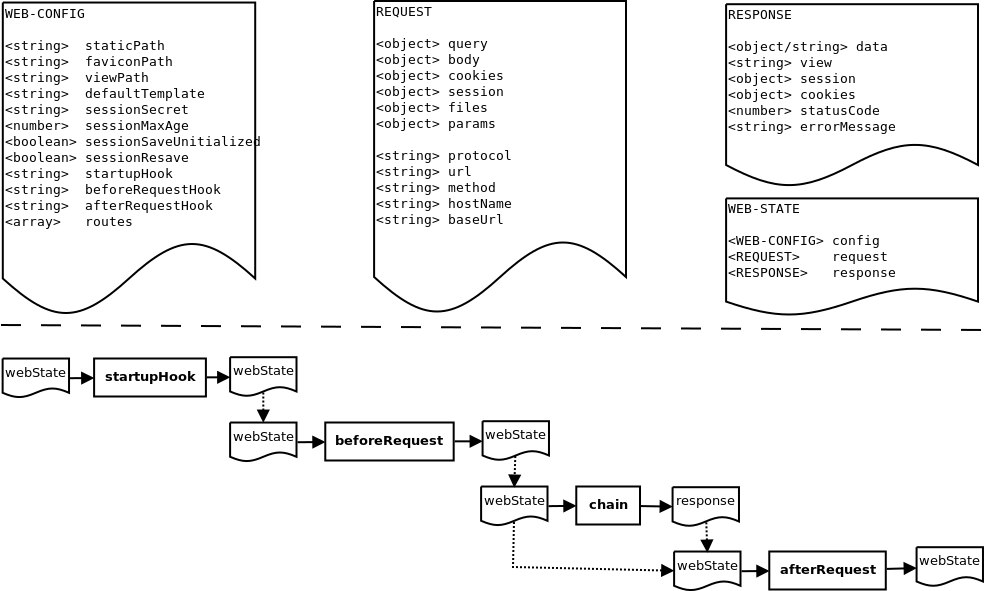
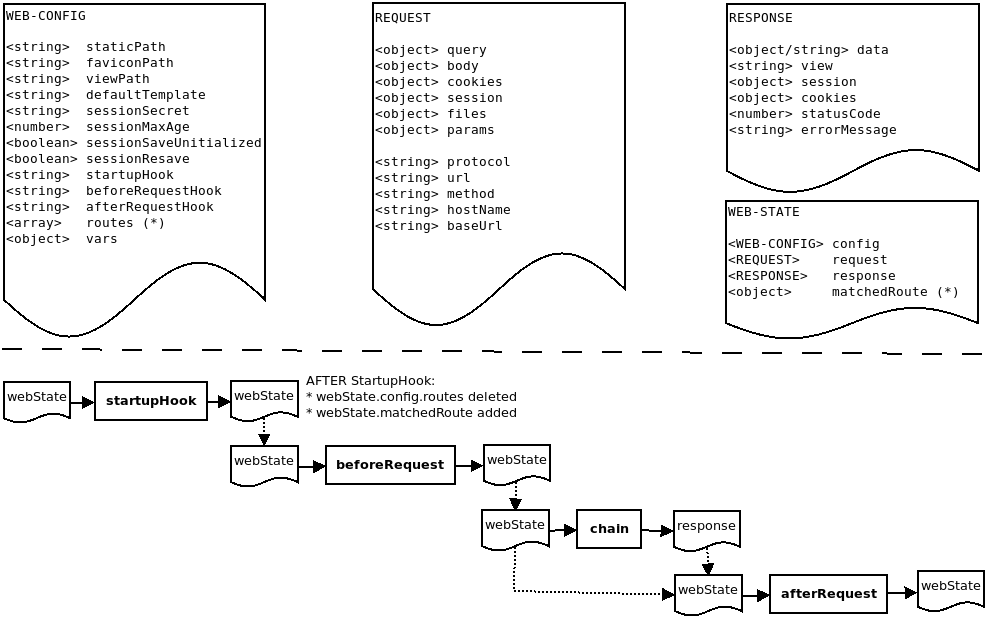
remove unused dependencies

diff --git a/lib/web.js b/lib/web.js
@@ -8,6 +8,7 @@ module.exports = {
 }
 
 const async = require('neo-async')
+const compression = require('compression')
 const stringify = require('json-stringify-safe')
 const express = require('express')
 const favicon = require('serve-favicon')
@@ -129,11 +130,7 @@ function getParametersAsObject (route, urlPath) {
 }
 
 function getAppWithMiddleware (app, config) {
-  app.use(logger('dev'))
-  app.use(bodyParser.json())
-  app.use(bodyParser.urlencoded({ extended: true }))
-  app.use(cookieParser())
-  app.use(fileUpload())
+  app.use(compression())
   try {
     if (!util.isNullOrUndefined(config.staticPath)) {
       app.use(express.static(config.staticPath))
@@ -151,6 +148,11 @@ function getAppWithMiddleware (app, config) {
   } catch (error) {
     console.error(error)
   }
+  app.use(logger('dev'))
+  app.use(bodyParser.json())
+  app.use(bodyParser.urlencoded({ extended: true }))
+  app.use(cookieParser())
+  app.use(fileUpload())
   // nunjucks, pug, handlebars, and ejs are used altogether
   app.engine('njk', engines.nunjucks)
   app.engine('pug', engines.pug)
@@ -196,7 +198,7 @@ function createResponder (app, webConfig) {
     // process
     async.series([
       createHookProcessor(STATE.config, 'startupHook'),
-      routeProcessor,
+      routeProcessor, // set STATE.matchedRoute if there is a matching route, delete STATE.config.routes
       createHookProcessor(STATE.config, 'beforeRequestHook'),
       createChainProcessor(STATE.config),
       createHookProcessor(STATE.config, 'afterRequestHook')
@@ -220,10 +222,7 @@ function createResponder (app, webConfig) {
       logMessage(description + ' STATE :\n' + util.getInspectedObject(STATE), verbosity)
     }
 
-    function findRouteObj () {
-      let routeObjList = STATE.config.routes
-      let urlPath = url.parse(STATE.request.url).pathname
-      let method = STATE.request.method.toLowerCase()
+    function findRouteObj (routeObjList, urlPath, method) {
       for (let i = 0; i < routeObjList.length; i++) {
         let routeObj = routeObjList[i]
         let routeMethod = routeObj.method
@@ -236,7 +235,19 @@ function createResponder (app, webConfig) {
     }
 
     function routeProcessor (callback) {
-      let routeObj = findRouteObj()
+      let routeObjList = STATE.config.routes
+      let urlPath = url.parse(STATE.request.url).pathname
+      let method = STATE.request.method.toLowerCase()
+      logMessage('PROCESS ROUTE `' + urlPath + '`', VERBOSE)
+      let routeObj = findRouteObj(routeObjList, urlPath, method)
+      STATE.matchedRoute = routeObj
+      if (util.isNullOrUndefined(routeObj)) {
+        logMessage('CHAIN FOR `' + urlPath + '` DOES NOT EXIST', VERBOSE)
+      } else {
+        logMessage('FIND `' + routeObj.chain + '` FOR `' + urlPath + '`', VERBOSE)
+      }
+      delete STATE.config.routes
+      callback()
     }
 
     function createHookProcessor (config, hookKey) {
@@ -282,50 +293,40 @@ function createResponder (app, webConfig) {
         if (STATE.response.status >= 400) {
           return callback()
         }
-        let routeObjList = STATE.config.routes
-        let urlPath = url.parse(STATE.request.url).pathname
-        let method = STATE.request.method.toLowerCase()
-        // delete STATE.config.vars && STATE.config.routes
-        delete STATE.config.vars
-        delete STATE.config.routes
-        logMessage('BEFORE ' + urlPath, VERBOSE)
-        logState('BEFORE ' + urlPath, VERY_VERBOSE)
-        for (let i = 0; i < routeObjList.length; i++) {
-          let routeObj = routeObjList[i]
-          let routeMethod = routeObj.method
+        let routeObj = STATE.matchedRoute
+        if (routeObj) {
+          let urlPath = url.parse(STATE.request.url).pathname
           let route = routeObj.route
-          if ((routeMethod === 'all' || routeMethod === method) && isRouteMatch(route, urlPath)) {
-            if (routeObj.view) {
-              // inject view if it is defined by the route
-              STATE.response.view = routeObj.view
-            }
-            let chain = routeObj.chain
-            STATE.request.params = getParametersAsObject(route, urlPath)
-            logMessage('FIND ' + urlPath + ' -> ' + chain, VERBOSE)
-            return core.executeChain(chain, [STATE], config.vars, function (error, newResponse) {
-              if (!error) {
-                console.error(STATE.response.status)
-                if (!util.isRealObject(newResponse)) {
-                  newResponse = {'data': String(newResponse)}
-                }
-                STATE.response = util.getPatchedObject(STATE.response, newResponse)
-              } else {
-                STATE.response = util.getPatchedObject(STATE.response, newResponse)
-                STATE.response.status = 500
-                STATE.response.errorMessage = 'Internal Server Error'
-                STATE.response.error = error
-                console.error(error)
-              }
-              logMessage('AFTER ' + urlPath + ' -> ' + chain, VERBOSE)
-              logState(urlPath + ' -> ' + chain, VERY_VERBOSE)
-              return callback()
-            })
+          if (routeObj.view) {
+            // inject view if it is defined by the route
+            STATE.response.view = routeObj.view
           }
+          let chain = routeObj.chain
+          STATE.request.params = getParametersAsObject(route, urlPath)
+          logMessage('EXECUTE `' + chain + '`', VERBOSE)
+          logState(chain, VERY_VERBOSE)
+          return core.executeChain(chain, [STATE], config.vars, function (error, newResponse) {
+            if (!error) {
+              console.error(STATE.response.status)
+              if (!util.isRealObject(newResponse)) {
+                newResponse = {'data': String(newResponse)}
+              }
+              STATE.response = util.getPatchedObject(STATE.response, newResponse)
+            } else {
+              STATE.response = util.getPatchedObject(STATE.response, newResponse)
+              STATE.response.status = 500
+              STATE.response.errorMessage = 'Internal Server Error'
+              STATE.response.error = error
+              console.error(error)
+            }
+            logMessage('EXECUTION COMPLETE', VERBOSE)
+            logState(chain, VERY_VERBOSE)
+            return callback()
+          })
         }
         STATE.response.status = 404
         STATE.response.errorMessage = 'Not Found'
-        logMessage('AFTER ' + urlPath + ' (Not Found)', VERBOSE)
-        logState(urlPath + ' (Not Found)', VERY_VERBOSE)
+        logMessage('NOT FOUND', VERBOSE)
         return callback()
       }
     }

diff --git a/web/helper.js b/web/helper.js
@@ -37,31 +37,38 @@ function loadEjs (fileName, data) {
   return ejs.render(content, data).trim()
 }
 
+function renderContent (responseData, view, viewPath) {
+  if (fs.existsSync(view)) {
+    return loadEjs(view, responseData)
+  } else if (fs.existsSync(path.join(viewPath, view))) {
+    return loadEjs(path.join(viewPath, view), responseData)
+  } else {
+    return ejs.render(view, responseData)
+  }
+}
+
 function injectBaseLayout (state, callback) {
   let cck = require('./cck.js')
   if (util.isRealObject(state.response.data)) {
-    state.response.data.render = cck.render
+    state.response.data.renderFieldTemplate = cck.renderFieldTemplate
+    state.response.data.render = ejs.render
   }
   if (util.isNullOrUndefined(state.response.view) || state.response.view === '') {
     return callback(null, state)
   }
   let responseData = state.response.data
-  let content
-  let templateFile = getAbsoluteFilePath(state.config.viewPath, state.response.view)
-  if (fs.existsSync(templateFile)) {
-    content = loadEjs(templateFile, responseData)
-  } else {
-    content = ejs.render(templateFile, responseData)
-  }
+  let content = renderContent(responseData, state.response.view, state.config.viewPath)
   let newResponseData = {content, partial: {}}
   let actions = []
+  let config = state.config
+  let auth = state.request.auth
   for (let partialName in state.config.partial) {
     actions.push((next) => {
       let partialPath = state.config.partial[partialName]
       if (fs.existsSync(partialPath)) {
-        newResponseData.partial[partialName] = loadEjs(partialPath, {responseData})
+        newResponseData.partial[partialName] = loadEjs(partialPath, {auth, config, responseData})
       } else {
-        newResponseData.partial[partialName] = ejs.render(partialPath, {responseData})
+        newResponseData.partial[partialName] = ejs.render(partialPath, {auth, config, responseData})
       }
       next()
     })
@@ -71,13 +78,6 @@ function injectBaseLayout (state, callback) {
     state.response.view = state.config.baseLayout
     return callback(error, state)
   })
-}
-
-function getAbsoluteFilePath (basePath, filePath) {
-  if (path.isAbsolute(filePath)) {
-    return filePath
-  }
-  return path.join(basePath, filePath)
 }
 
 function isAuthorized (request, groups) {
@@ -185,7 +185,9 @@ function injectState (state, callback) {
   ], (error, result) => {
     // add db configs
     for (let doc of configDocs) {
-      state.config[doc.key] = doc.value
+      if (state.config.exceptionKeys.indexOf(doc.key) > -1) {
+        state.config[doc.key] = renderConfigValue(doc.value, state.config)
+      }
     }
     // render routes
     for (let route in state.config.routes) {
@@ -204,11 +206,28 @@ function injectState (state, callback) {
   })
 }
 
+function renderConfigValue (doc, webConfig) {
+  let value = doc.value
+  if (util.isRealObject(value) || util.isArray(value)) {
+    value = JSON.stringify(value)
+    value = ejs.render(value, webConfig)
+    value = JSON.parse(value)
+  } else if (util.isString(value)) {
+    value = ejs.render(value, webConfig)
+  }
+  return value
+}
+
 function renderRoute (doc, config) {
   let route = ejs.render(doc.route, config)
   let method = doc.method ? ejs.render(doc.method, config) : 'all'
   let chain = ejs.render(doc.chain, config)
-  return {route, method, chain}
+  let groups = 'groups' in doc ? doc.groups : []
+  let routeObj = {route, method, chain, groups}
+  if (doc.view) {
+    routeObj.view = doc.view
+  }
+  return routeObj
 }
 
 function createRandomString (length = 16) {

diff --git a/web/webConfig.default.js b/web/webConfig.default.js
@@ -11,6 +11,7 @@ const webConfig = {
   chainPath,
   cckPath: path.join(__dirname, 'cck.js'),
   helperPath: path.join(__dirname, 'helper.js'),
+  exceptionKeys: ['basePath', 'chainPath', 'cckPath', 'helperPath', 'exceptionKeys', 'routes', 'jwtSecret', 'jwtExpired', 'jwtTokenName', 'sessionSecret', 'sessionMaxAge', 'sessionSaveUnitialized', 'sessionResave', 'startupHook', 'beforeRequestHook', 'afterRequestHook', 'middlewares', 'mongoUrl', 'migrationPath', 'staticPath', 'faviconPath', 'viewPath', 'errorTemplate', 'defaultTemplate', 'baseLayout', 'vars'],
   // routes
   routes: [],
   // jwt configuration
@@ -24,7 +25,7 @@ const webConfig = {
   sessionResave: true,
   // hook configuration
   startupHook: path.join(chainPath, 'core.hook.startup.chiml'),
-  beforeRequestHook: null,
+  beforeRequestHook: path.join(chainPath, 'core.hook.beforeRequest.chiml'),
   afterRequestHook: path.join(chainPath, 'core.hook.afterRequest.chiml'),
   // list of express middlewares function
   middlewares: [],
@@ -71,7 +72,7 @@ const webConfig = {
     presentation: {
       text: '<%= value %>',
       option: '<%= value in fieldInfo.options? fieldInfo.options[value]: "" %>',
-      trimmedText: '<%= JSON.stringify(value).length > 30 ? JSON.stringify(value).slice(0,27) + \'...\' : JSON.stringify(value) %>',
+      trimmedText: '<%= value === null || value === undefined || value === \'\'? \'\': (JSON.stringify(value).length > 30 ? JSON.stringify(value).slice(0,27) + \'...\' : JSON.stringify(value)) %>',
       jsonText: '<pre><%= value === Object(value) ? JSON.stringify(value, null, 2) : value %></pre>',
       codeText: '<pre><%= value %></pre>'
     }

diff --git a/web/cck.js b/web/cck.js
@@ -13,7 +13,7 @@ module.exports = {
   getInitialState,
   getShownDocument,
   getCombinedFilter,
-  render
+  renderFieldTemplate
 }
 
 const cckCollectionName = 'web_cck'
@@ -87,7 +87,7 @@ const defaultFieldData = {
   options: {}
 }
 
-function render (schemaInfo, fieldName, templateNames, row) {
+function renderFieldTemplate (schemaInfo, fieldName, templateNames, row) {
   let fieldInfo = schemaInfo.fields[fieldName]
   let realTemplateName
   if (util.isArray(templateNames)) {
@@ -136,14 +136,22 @@ function removeSchema (config, callback) {
 }
 
 function getDefaultConfigs () {
-  let exceptions = ['routes', 'jwtSecret', 'jwtExpired', 'jwtTokenName', 'sessionSecret', 'sessionMaxAge', 'sessionSaveUnitialized', 'sessionResave', 'middlewares', 'mongoUrl', 'migrationPath', 'vars']
   let webConfig = helper.getWebConfig()
+  let basePath = webConfig.basePath
   let defaultConfigs = []
   for (let key in webConfig) {
-    if (exceptions.indexOf(key) >= 0) {
+    if (webConfig.exceptionKeys.indexOf(key) >= 0) {
       continue
     }
     let value = webConfig[key]
+    let basePathPattern = new RegExp(basePath, 'g')
+    if (util.isRealObject(value) || util.isArray(value)) {
+      value = JSON.stringify(value)
+      value = value.replace(basePathPattern, '<%- basePath %>')
+      value = JSON.parse(value)
+    } else if (util.isString(value)) {
+      value = value.replace(basePathPattern, '<%- basePath %>')
+    }
     defaultConfigs.push({key, value, defaultConfig: 1})
   }
   return defaultConfigs
